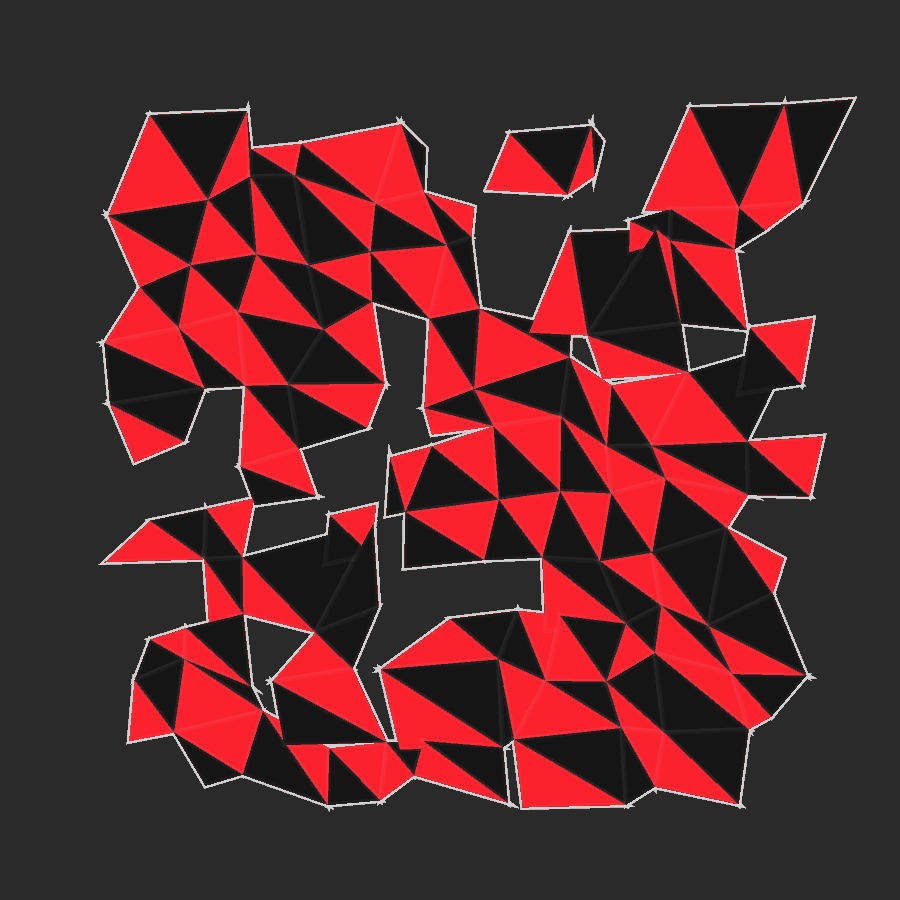
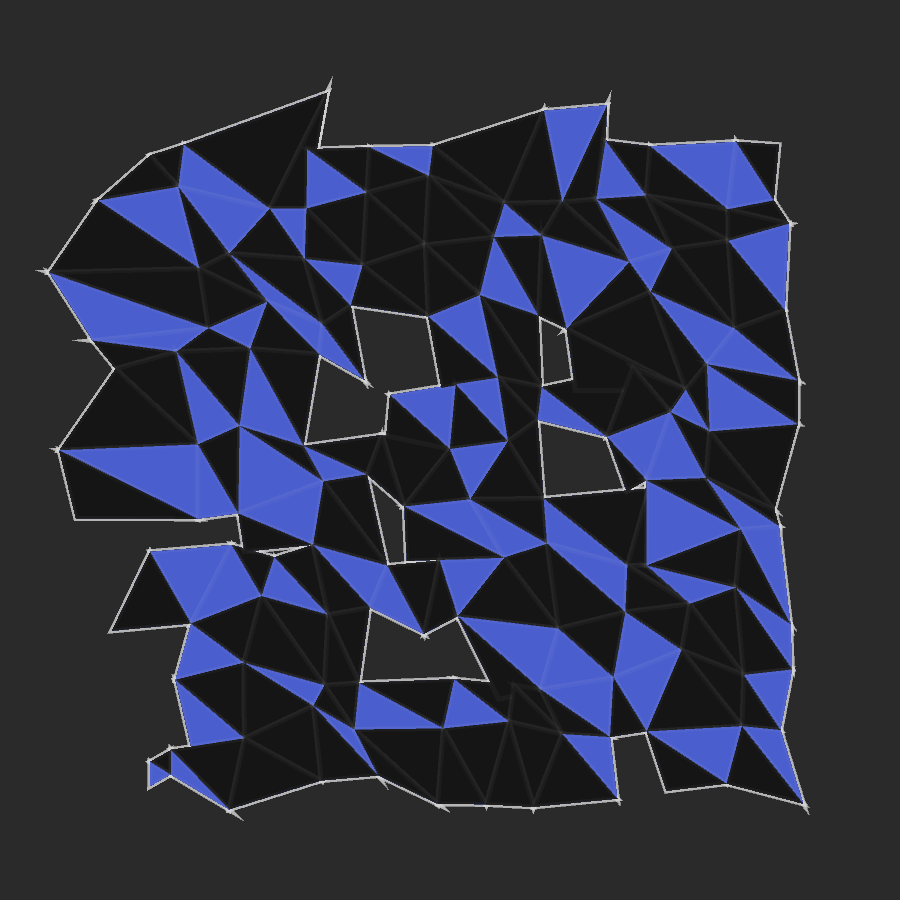
change colors

diff --git a/s_288/s_288.py b/s_288/s_288.py
@@ -16,7 +16,8 @@ LINE = (220, 220, 220, 10)
 C1 = (74, 94, 206)
 C2 = (21, 21, 21)
 
-COLORS = [C1, C2]
+# balance c1 or c3 qtd
+COLORS = [C1, C2, C2]
 
 class TriSquare(BaseTriSquare):
 
